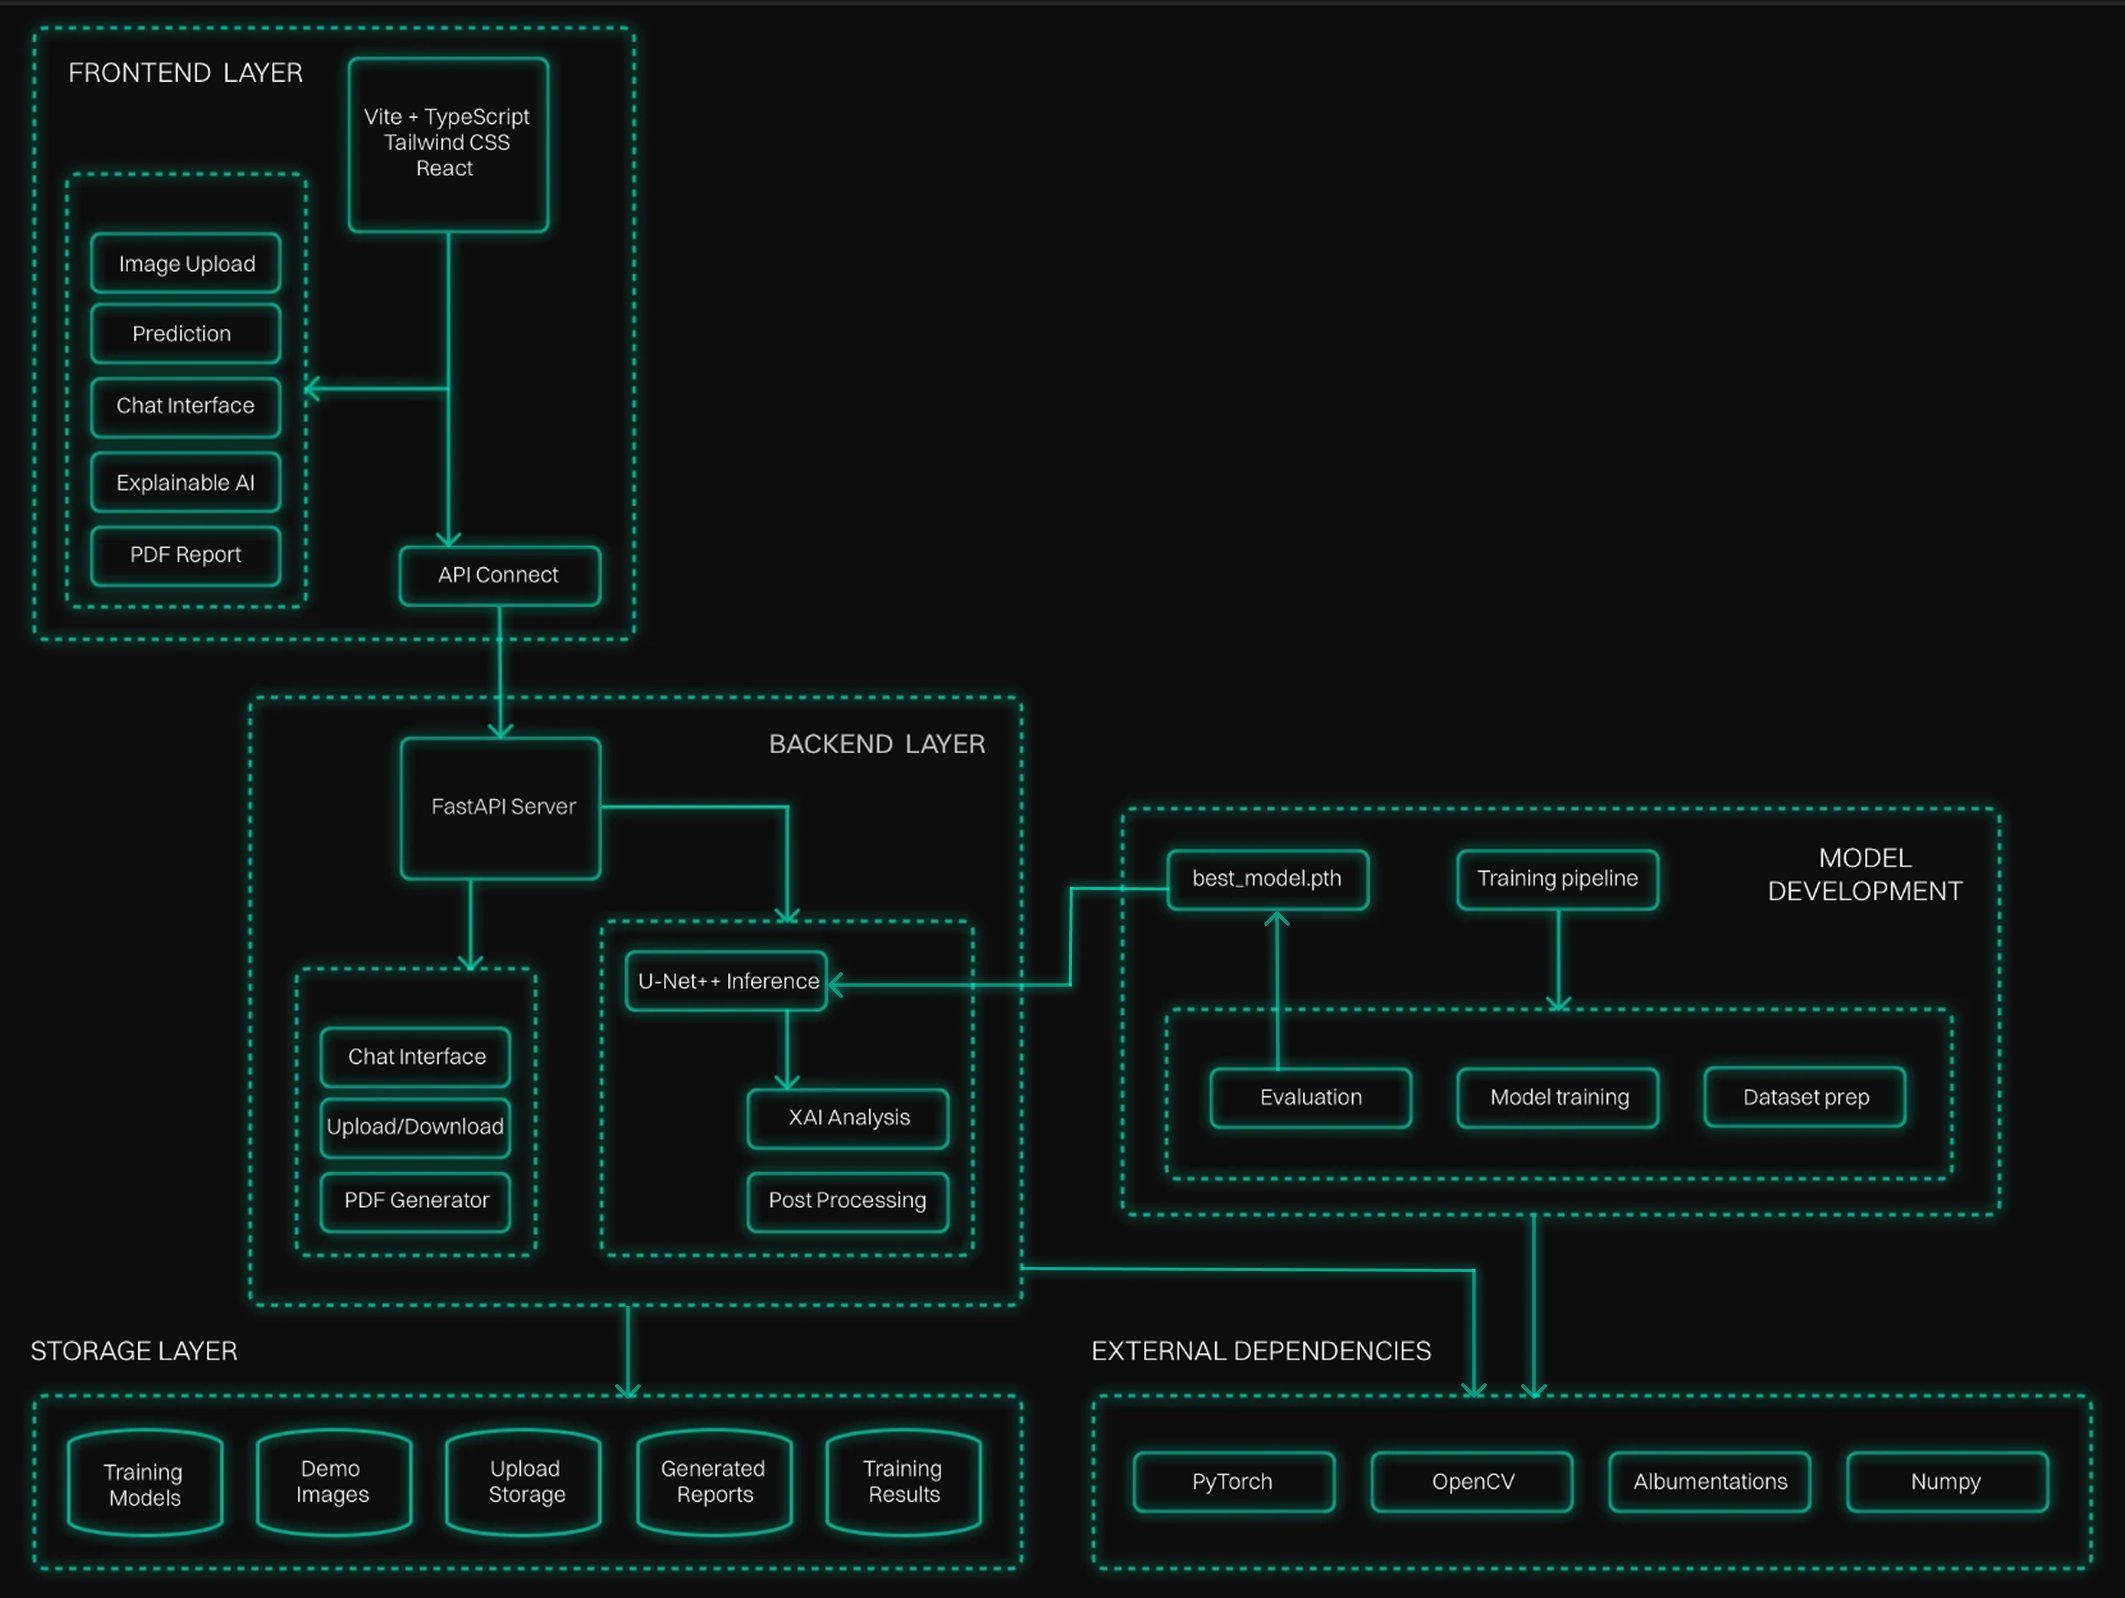
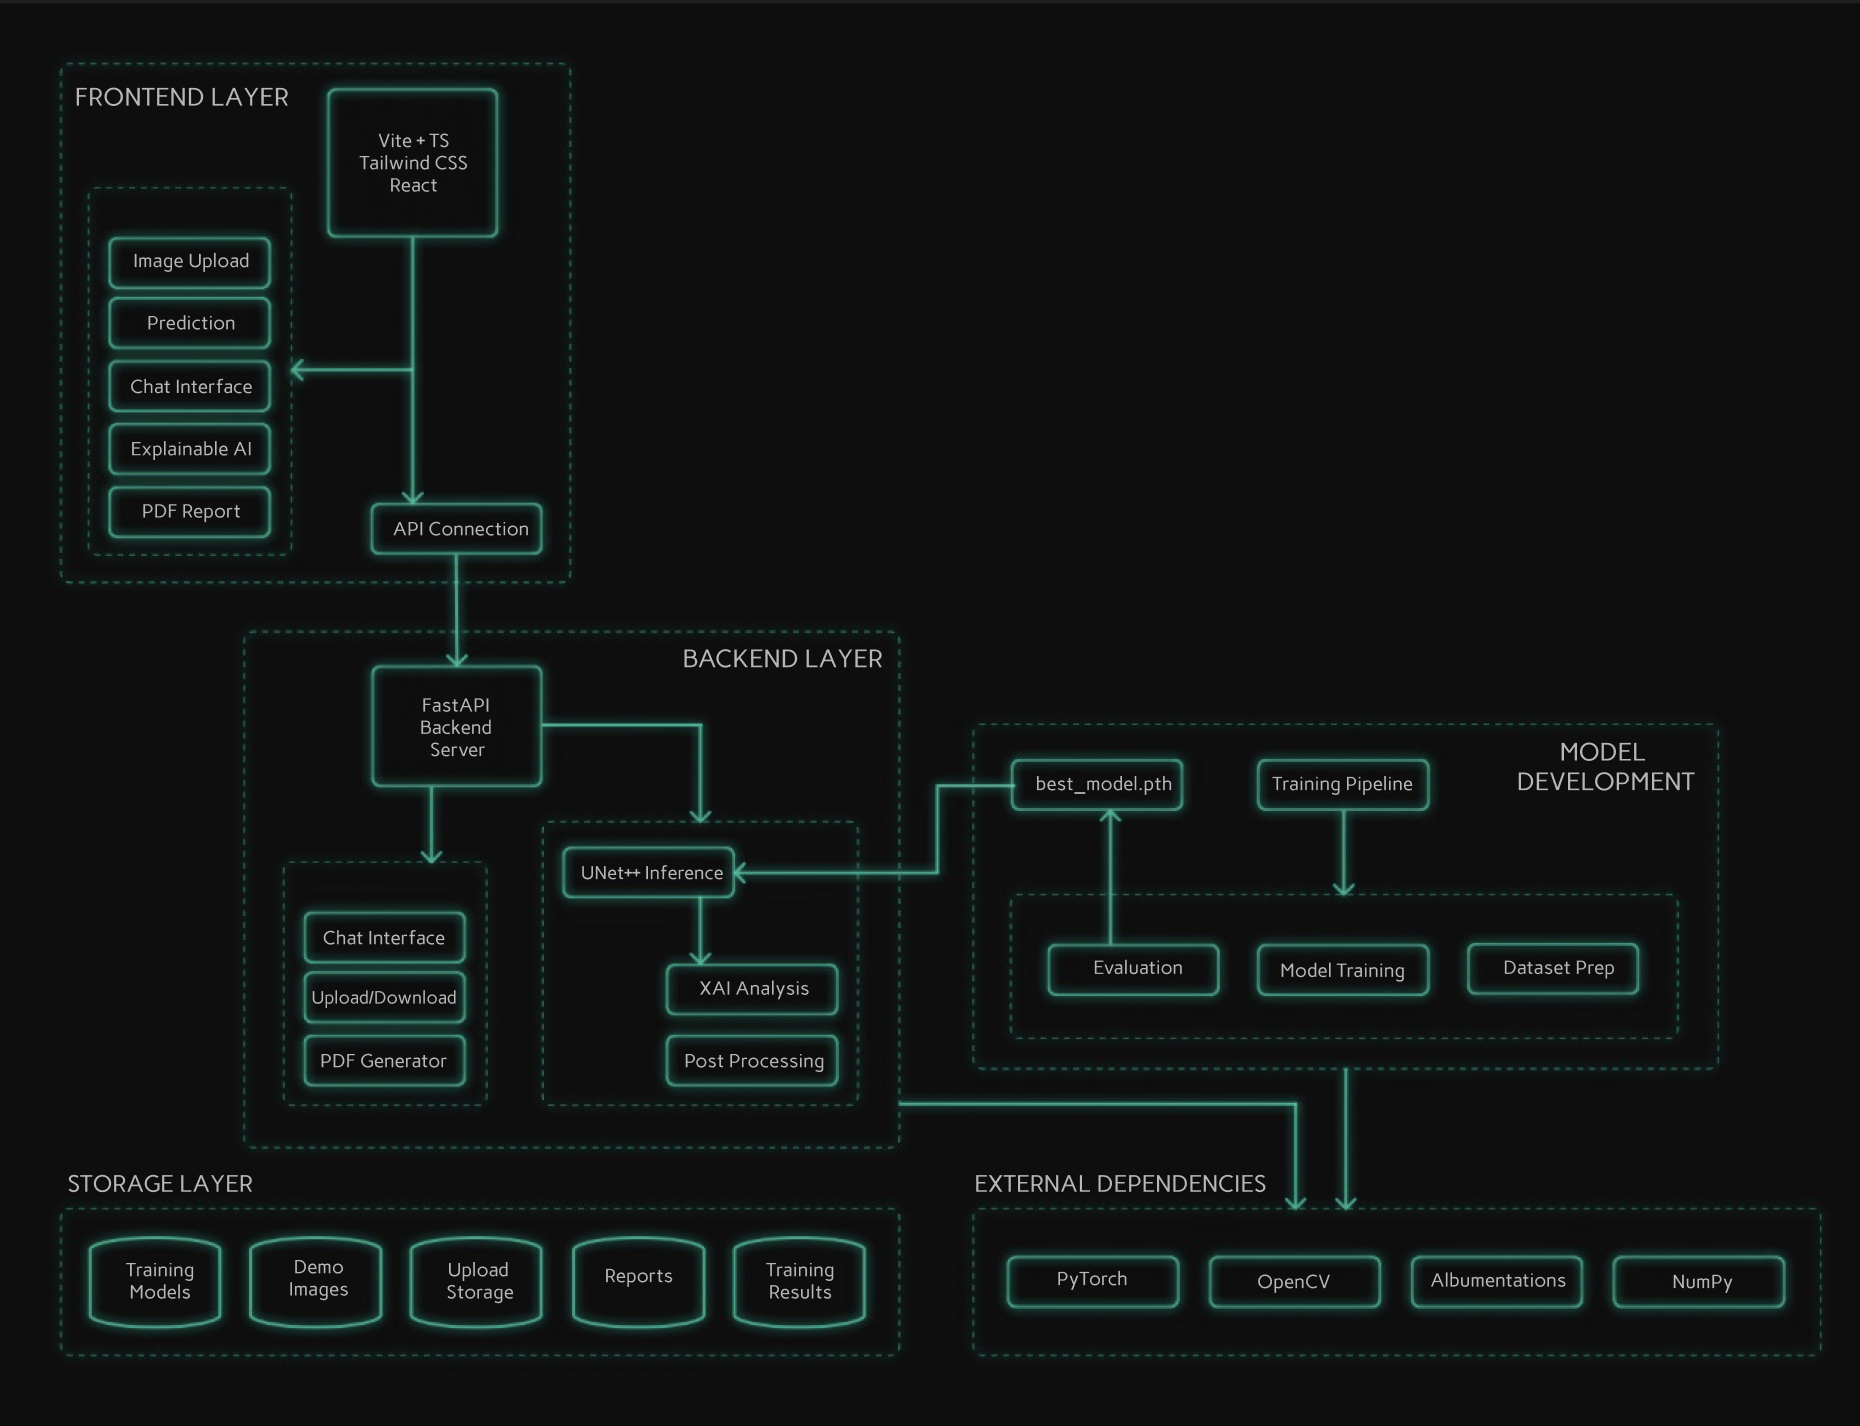
ReadMe changes

Changed region(s): [[0.0, 0.0, 0.9978, 0.9874], [0.8108, 0.4937, 0.9355, 0.5863]]

diff --git a/README.md b/README.md
@@ -78,7 +78,7 @@ For detailed model training results, architecture details, and comprehensive eva
 ## 5. Architecture Diagram
 
 <!-- Architecture diagram will be added here -->
-![Archdiag](assets/arch/archh.png)
+![Archdiag](assets/arch/Arch.png)
 
 ---
 
